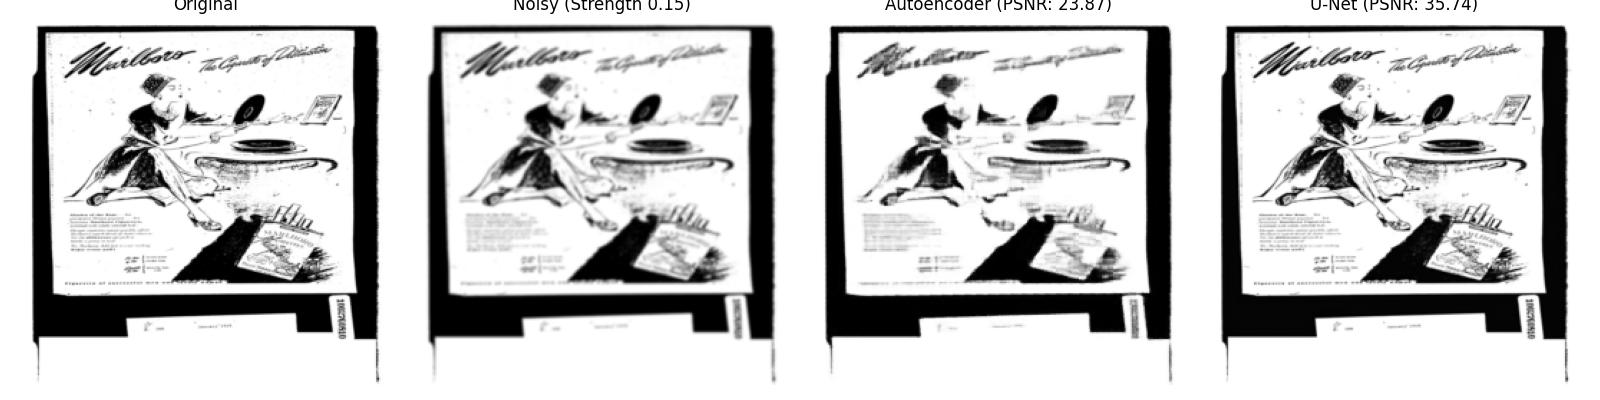
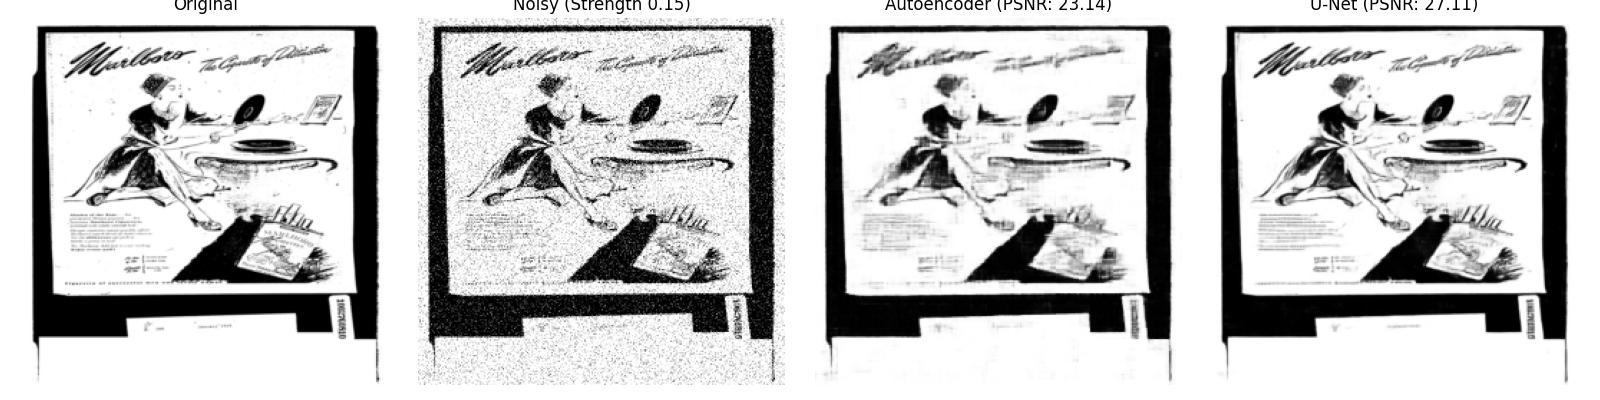
Improved add_noise() and final eval done

diff --git a/doc_denoiser/inference/image_utils.py b/doc_denoiser/inference/image_utils.py
@@ -3,6 +3,7 @@
 # Handles conversion between PIL images, numpy arrays, and PyTorch tensors.
 
 import numpy as np
+import cv2
 from PIL import Image
 import torch
 
@@ -77,17 +78,37 @@ def postprocess_output(tensor: torch.Tensor, original_size: tuple) -> Image.Imag
 
 def add_noise_to_pil(pil_image: Image.Image, noise_strength: float = 0.1) -> Image.Image:
     """
-    Add Gaussian noise to a PIL image (used in the Streamlit UI for preview).
+    Add random noise (Gaussian, blur, or both) to a PIL image based on a random integer.
 
     Args:
         pil_image: Input PIL image (grayscale).
-        noise_strength: Noise standard deviation.
+        noise_strength: Overall intensity of noise/blur.
 
     Returns:
         Noisy PIL image.
     """
     arr = np.array(pil_image, dtype=np.float32) / 255.0
-    noise = np.random.normal(0, noise_strength, arr.shape).astype(np.float32)
-    noisy = np.clip(arr + noise, 0.0, 1.0)
-    noisy_uint8 = (noisy * 255).astype(np.uint8)
+
+    # Generate a random integer from 0 to 2
+    # 0: Gaussian Noise
+    # 1: Gaussian Blur
+    # 2: Both
+    noise_type = np.random.randint(0, 3)
+
+    if noise_type == 0:
+        # Only Gaussian Noise
+        noise = np.random.normal(0, noise_strength, arr.shape).astype(np.float32)
+        arr = np.clip(arr + noise, 0.0, 1.0)
+    elif noise_type == 1:
+        # Only Gaussian Blur
+        kernel_size = max(1, int(noise_strength * 20)) * 2 + 1
+        arr = cv2.GaussianBlur(arr, (kernel_size, kernel_size), 0)
+    else:
+        # Both
+        noise = np.random.normal(0, noise_strength, arr.shape).astype(np.float32)
+        arr = np.clip(arr + noise, 0.0, 1.0)
+        kernel_size = max(1, int(noise_strength * 10)) * 2 + 1
+        arr = cv2.GaussianBlur(arr, (kernel_size, kernel_size), 0)
+
+    noisy_uint8 = (np.clip(arr, 0.0, 1.0) * 255).astype(np.uint8)
     return Image.fromarray(noisy_uint8, mode="L")
